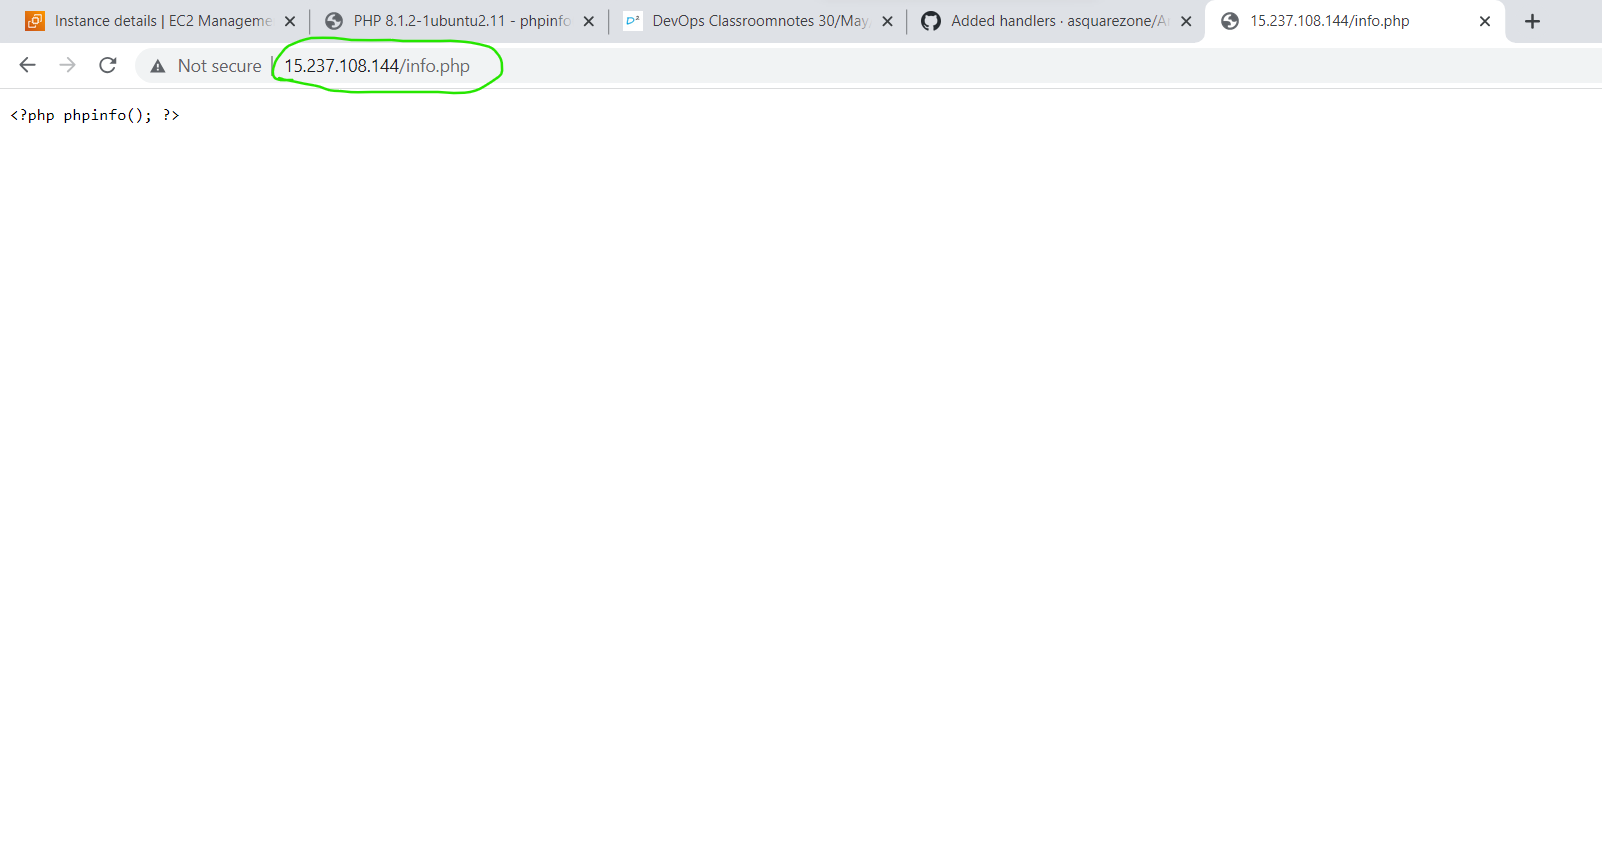
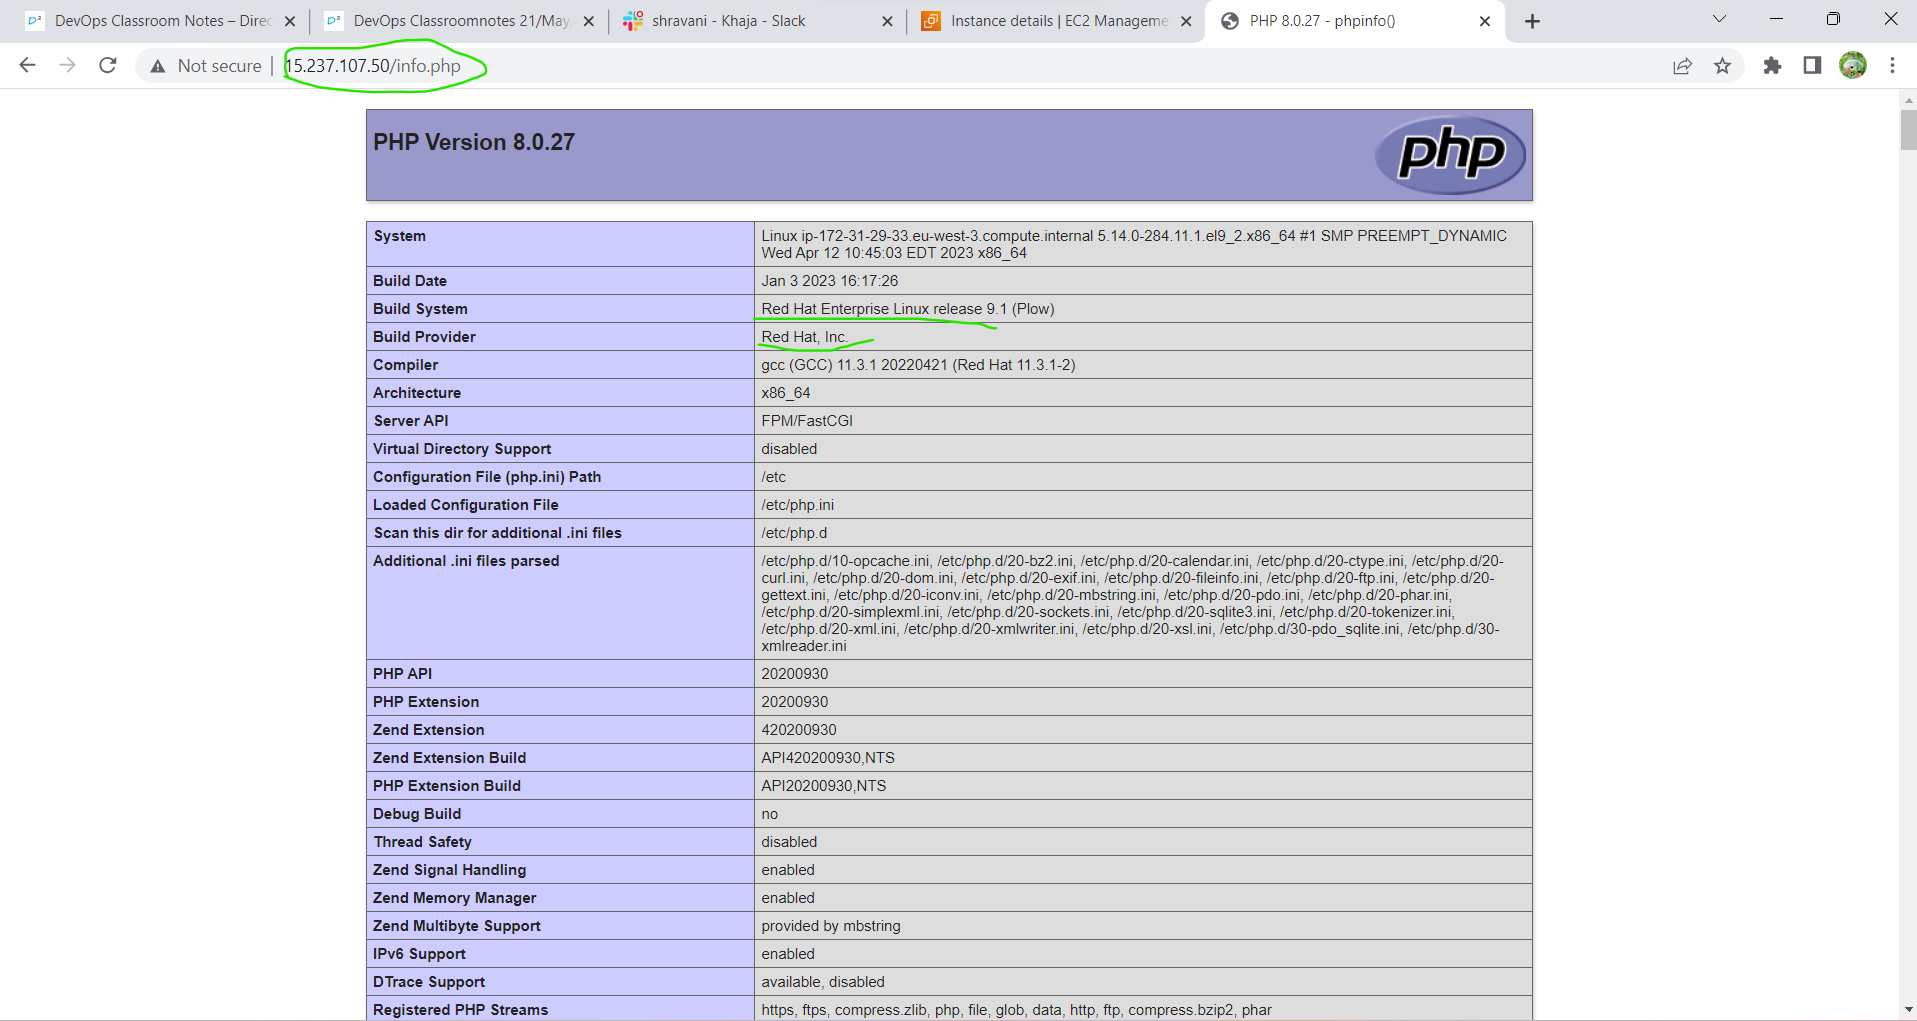
edit info.php content

diff --git a/yamlfiles/handlers/info.php b/yamlfiles/handlers/info.php
@@ -1,1 +1,3 @@
-<?php phpinfo(); ?>
+<?php 
+phpinfo() 
+?>

diff --git a/yamlfiles/lamp/info.php b/yamlfiles/lamp/info.php
@@ -1,1 +1,3 @@
-<?php phpinfo(); ?>
+<?php 
+phpinfo() 
+?>

diff --git a/notes/teamstasks/task1.md b/notes/teamstasks/task1.md
@@ -316,7 +316,46 @@ cat inventory
 Task-3, 02-06-2023
 -----------------------
  1. install metricbeat installation on ubuntu vm.(Manually)
- 2. install metricbeat installation on ansible nodes by playbook.
+* [refer here](https://www.elastic.co/guide/en/beats/metricbeat/current/setup-repositories.html)for documentation
+* Same as it is follow above document
+![preview](./moniterimages/mon2.png)
+![preview](./moniterimages/mon3.png)
+* use this command to configure the elastic search with local host``sudo vi /etc/metricbeat/metricbeat.yml`` in this edit cloudID and cloud auth see the preview7 in that cloud ID is there.
+* password is in the credentials save it.
+* If we want to reset password goto security it is below the deployments.
+![preview](./moniterimages/mon4.png)
+* Enable the nginx module``sudo metricbeat modules enable nginx``
+
+ 
+ 
+ 
+ 
+ 
+ 
+ 
+ 
+ 
+ 
+ 
+ 
+ 
+ 
+ 
+ 
+ 
+ 
+ 
+ 
+ 
+ 
+ 
+ 
+ 
+ 
+ 
+ 
+ 
+2. install metricbeat installation on ansible nodes by playbook.
 ----------------------------------------------------------------------------------------------------------------------------------------
 Task-4, 03-06-2023
 -----------------------
